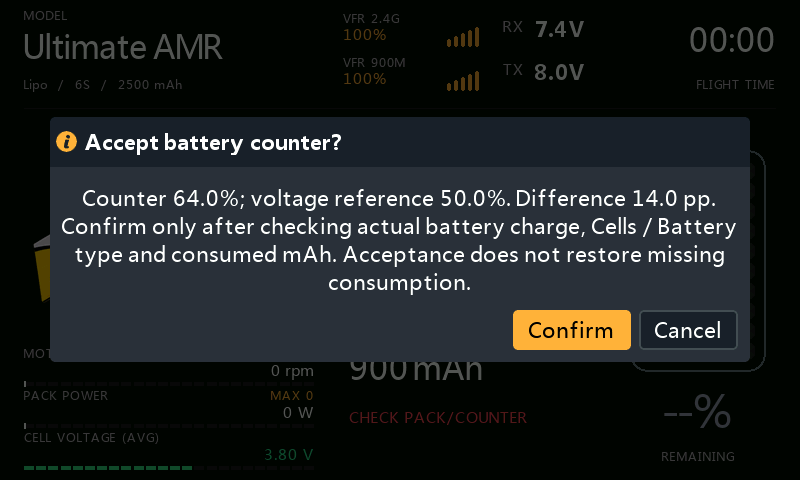
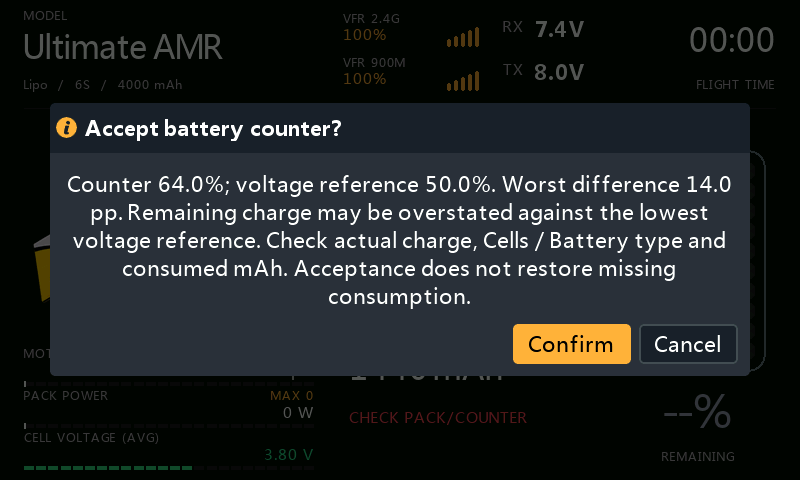
Release VoltDeck 2026.10-v7

Changed region(s): [[0.0625, 0.3438, 0.9375, 0.6562], [0.0625, 0.1875, 0.9375, 0.3125], [0.0625, 0.625, 0.9375, 0.8125]]

diff --git a/docs/Konfigurasjon-norsk.md b/docs/Konfigurasjon-norsk.md
@@ -70,19 +70,20 @@ avlesningene er kontrollert. Gjenværende mAh er også ukjent under kontrollen;
 **Consumed** kan fortsatt vise sensorens avlesning. Kontrollen gjelder ved alle
 forbruksnivåer, ikke bare når telleren er nær null.
 
-Hold motoren dearmert og la batteriet stabilisere seg. VoltDeck trenger gyldig
+La batteriet stabilisere seg. VoltDeck trenger gyldig
 pakkespenning, strøm og forbrukt mAh, fulgt av **10 sekunder med stabile
-avlesninger ved lav strøm**. Strømmen må være mellom null og **kapasitet / 20000 A**,
-begrenset til **0,5 A**: for 2500 mAh er grensen **0,125 A**. Spenningen kan variere
-med høyst **0,01 V per celle** i dette tidsrommet. Høyere strøm eller ARM PÅ
-avbryter målevinduet og krever minst **60 sekunder** for stabilisering før ny
-kontroll. En valgt faktisk **Arm switch** må være gyldig og AV. Tomt felt eller
-**Always on** gir ingen ARM-indikasjon; sørg selv for at motoren er sikkert
-deaktivert.
+avlesninger ved lav strøm**. Strømmen må være mellom null og **3 × kapasitet / 20000 A**,
+begrenset til **1,5 A**: grensen er **0,375 A for 2500 mAh** eller **0,60 A for
+4000 mAh**. Forskjellen mellom høyeste og laveste spenning kan være høyst
+**0,20 V for hele pakken**, ikke per celle. Høyere strøm, manglende avlesninger
+eller større spenningsvariasjon starter målevinduet på nytt. Det er ingen egen
+ventetid. **Arm switch** sperrer ikke denne batterikontrollen; den styrer
+fortsatt flyloggingen.
 
 Kontrollen sammenligner tellerens gjenværende prosent med en grov
-spenningsreferanse for valgt batteritype. Avviket måles i **prosentpoeng**, i
-begge retninger.
+spenningsreferanse for valgt batteritype. Mulig overestimering kontrolleres mot
+vinduets **laveste spenning**, og underestimering mot **høyeste spenning**.
+Det største avviket bestemmer resultatet, målt i **prosentpoeng**.
 Dialogen avrunder avviket opp til nærmeste 0,1 prosentpoeng; trekker du de to
 avrundede prosentene fra hverandre, kan resultatet derfor bli 0,1 poeng lavere.
 
@@ -91,6 +92,14 @@ avrundede prosentene fra hverandre, kan resultatet derfor bli 0,1 poeng lavere.
 | 10 prosentpoeng eller mindre | Godtas automatisk; beregnet prosent og batterisegmentene vises. |
 | Over 10, til og med 20 prosentpoeng | **CHECK PACK/COUNTER** beholdes i rødt og gjenværende lading er ukjent. Kontroller batteri og sensor, og bruk **Accept battery counter...** for å lese begge prosentene og avviket før bekreftelse. |
 | Over 20 prosentpoeng | Gjenværende lading forblir ukjent. Rett lading, batteriinnstillinger eller forbruksavlesning; menyen kan ikke omgå denne grensen. |
+
+**Accept battery counter...** viser hva som hindrer kontrollen, blant annet
+manglende eller uegnede kilder, målt strøm mot grensen, spenningsvariasjon eller
+fremdrift i 10-sekundersvinduet. Et høyere tellerestimat varsler om mulig
+overestimering; et lavere ber deg kontrollere forbruk, kapasitet og kalibrering
+av sensoren. Bekreftelsen bruker det kontrollerte spenningsområdet, slik at
+variasjon innenfor området ikke krever en identisk øyeblikksavlesning.
+Aktuell telemetri og batterioppsettet må fortsatt være gyldige når du bekrefter.
 
 For **LiFe** gir spenning ingen pålitelig prosentvis sammenligning.
 Etter samme lavstrømskontroll må du kontrollere faktisk lading, kapasitet og
@@ -115,8 +124,8 @@ gjenværende belastning påvirker resultatet. Visningen **Voltage estimate**
 beholder sin eksisterende skala, også **3,57 V = 30%** for Lipo; den er ikke
 referansen for denne kontrollen.
 
-**CHECK CELLS/TYPE** betyr at spenningen overstiger full cellevolt for valgt
-batteritype med mer enn 0,15 V/celle under samme tomgangsbetingelser. Rett
+**CHECK CELLS/TYPE** betyr at høyeste spenning i kontrollen overstiger full
+cellevolt for valgt batteritype med mer enn 0,15 V/celle. Rett
 **Cells**, **Battery type** eller spenningskilden; varselet kan ikke godtas bort
 med tellermenyen. Totalspenningen kan ikke fastslå riktig celletall.
 
@@ -361,7 +370,7 @@ korreksjonen.
 | Felt, i menyrekkefølge | Funksjon |
 |---|---|
 | Enable log | Slår på kvalifisering og modellspesifikk flytelling. |
-| Arm switch | Motorens faktiske arm-bryter eller logiske betingelse. Kreves for logging; aktivt også med logging av. Når valgt må den være gyldig og AV ved batterikontroll og tellergodkjenning. **---** og **Always on** gir ingen ARM-indikasjon for denne kontrollen. |
+| Arm switch | Motorens faktiske arm-bryter eller logiske betingelse. Kreves for logging. Sperrer ikke batterikontrollen ved **Consumed mAh**. Med **% sensor** eller **Voltage estimate** krever resetsperren for valgfri gjenværende mAh fortsatt en gyldig faktisk ARM AV-indikasjon ved godkjenning, også når logging er av. |
 | Throttle source | Faktisk gasskontroll/-kanal. Aktivt for diagnostikk også med logging av. |
 | Airborne gate | Valgfri bryter/logisk betingelse som må være PÅ for opptjening av kvalifiseringstid. **---** og **Always on** passerer. Aktivt for diagnostikk. |
 | Throttle low (raw) | Råverdi ved null gass, vist i **Flight diagnostics**. Standard -1024. |
@@ -440,7 +449,7 @@ når du går tilbake til aktuelle avlesninger.
 | Flight log / Dashboard | Bytter mellom hovedvisning og flylogg. |
 | Flight diagnostics | Åpner kvalifiseringsstatus og aktuelle kontrollavlesninger. |
 | Reset live peaks | Nullstiller hovedskjermens RPM- og Watt-maksimum. Endrer ikke flyteller eller maksimum i registrert flylogg. |
-| Accept battery counter... | Viser [batterikontrollen](#kontroll-før-gjenværende-lading-vises) ved **Consumed mAh**, eller et reset av den valgfrie telleren for gjenværende mAh med en annen metode. Kontroller faktisk lading og sensor før bekreftelse. Den kan ikke omgå avvik over 20 prosentpoeng eller **CHECK CELLS/TYPE** i batterikontrollen. Godkjenning gjenoppretter ikke manglende forbruk, nullstiller ikke sensoren, fyller ikke batteriet og endrer ikke flytellingen. |
+| Accept battery counter... | Viser status og eventuelle gjenværende sperrer for [batterikontrollen](#kontroll-før-gjenværende-lading-vises) ved **Consumed mAh**, eller et reset av den valgfrie telleren for gjenværende mAh med en annen metode. Kontroller faktisk lading og sensor før bekreftelse. Den kan ikke omgå avvik over 20 prosentpoeng eller **CHECK CELLS/TYPE** i batterikontrollen. Godkjenning gjenoppretter ikke manglende forbruk, nullstiller ikke sensoren, fyller ikke batteriet og endrer ikke flytellingen. |
 
 ## Visningseksempler
 

diff --git a/docs/Configuration.md b/docs/Configuration.md
@@ -71,19 +71,19 @@ are checked. The remaining-mAh display is also unknown during this check;
 **Consumed** can still show the sensor's reading. The check applies at every
 consumption level, not just when the counter is near zero.
 
-Keep the motor disarmed and let the pack settle. VoltDeck needs valid pack
+Let the pack settle. VoltDeck needs valid pack
 voltage, current and consumed mAh, followed by **10 seconds of stable low-current
-readings**. Current must be between zero and **capacity / 20000 A**, capped at
-**0.5 A**: for 2500 mAh, the limit is **0.125 A**. Voltage may vary by at most
-**0.01 V per cell** during that window. Higher current or ARM ON interrupts the
-window and requires at least **60 seconds** to settle before checking again.
-If a genuine **Arm switch** is selected, it must be valid and OFF. Leaving it
-blank or choosing **Always on** does not supply an ARM indication; keep the
-motor safely disabled yourself.
+readings**. Current must be between zero and **3 × capacity / 20000 A**, capped at
+**1.5 A**: the limit is **0.375 A for 2500 mAh** or **0.60 A for 4000 mAh**.
+The highest and lowest voltage may differ by at most **0.20 V for the whole
+pack**, not per cell. Higher current, missing readings or a wider voltage range
+starts the window again. There is no separate waiting period. **Arm switch**
+does not gate this pack check; it still controls flight logging.
 
 The check compares the counter's remaining percentage with a coarse voltage
-reference for the selected type. The difference is measured in **percentage
-points**, in either direction.
+reference for the selected type. It checks possible overestimation against the
+window's **lowest voltage** and underestimation against its **highest voltage**.
+The larger difference determines the result, measured in **percentage points**.
 The dialog rounds the difference up to the next 0.1 point; subtracting its two
 rounded percentages can therefore give a result 0.1 point lower.
 
@@ -92,6 +92,14 @@ rounded percentages can therefore give a result 0.1 point lower.
 | 10 percentage points or less | Automatically accepted; the calculated percentage and battery segments appear. |
 | More than 10, up to and including 20 points | **CHECK PACK/COUNTER** remains red and remaining charge stays unknown. Check the pack and sensor, then use **Accept battery counter...** to review both percentages and the difference before confirming. |
 | More than 20 points | Remaining charge stays unknown. Correct the charge, battery settings or consumption reading; the menu cannot bypass this limit. |
+
+**Accept battery counter...** shows what is holding up the check, including
+missing or unsuitable sources, measured current versus its limit, voltage
+variation or progress through the 10-second window. A higher counter estimate
+warns of possible overestimation; a lower one asks you to check consumption,
+capacity and sensor calibration. Confirmation uses the checked voltage range,
+so variation within that range does not require an identical frozen reading.
+Live telemetry and the battery setup must still be valid when you confirm.
 
 For **LiFe**, voltage cannot provide a dependable percentage comparison.
 After the same low-current check, inspect actual charge, capacity and consumed
@@ -116,8 +124,8 @@ and residual load affect the result. The **Voltage estimate** display retains
 its existing scale, including **3.57 V = 30%** for Lipo; it is not the reference
 used by this check.
 
-**CHECK CELLS/TYPE** means the voltage exceeds the selected battery type's full
-cell voltage by more than 0.15 V/cell under the same idle conditions. Correct
+**CHECK CELLS/TYPE** means the highest voltage in the check exceeds the selected
+battery type's full cell voltage by more than 0.15 V/cell. Correct
 **Cells**, **Battery type** or the voltage source; counter acceptance cannot
 dismiss this warning. Total voltage cannot determine the correct cell count.
 
@@ -361,7 +369,7 @@ from the flight log's uncorrected **KV potential**.
 | Field, in menu order | What it does |
 |---|---|
 | Enable log | Enables qualification and per-model flight counting. |
-| Arm switch | Actual motor-arm switch or logic condition. Required for logging; remains active when logging is Off. When selected, it must be valid and OFF during the pack check and counter acceptance. **---** and **Always on** do not provide an ARM indication for that check. |
+| Arm switch | Actual motor-arm switch or logic condition. Required for logging. Does not gate the **Consumed mAh** pack check. With **% sensor** or **Voltage estimate**, the optional remaining-mAh counter-reset guard still requires a valid actual ARM OFF indication for acceptance, even when logging is Off. |
 | Throttle source | Actual throttle control/channel. Remains active for diagnostics when logging is Off. |
 | Airborne gate | Optional switch/logic condition that must be ON to accumulate qualifying time. **---** and **Always on** pass. Remains active for diagnostics. |
 | Throttle low (raw) | Raw value at zero throttle, shown in **Flight diagnostics**. Default -1024. |
@@ -441,7 +449,7 @@ when you return to live readings.
 | Flight log / Dashboard | Switches between the dashboard and flight log. |
 | Flight diagnostics | Opens qualification status and live control readings. |
 | Reset live peaks | Clears the dashboard's RPM and Watts session peaks. It does not reset the flight count or the recorded flight's maxima. |
-| Accept battery counter... | Reviews [the pack check](#check-before-showing-remaining-charge) for **Consumed mAh**, or a reset of the optional remaining-mAh counter with another method. Check actual charge and the sensor before confirming. It cannot bypass a difference above 20 points or **CHECK CELLS/TYPE** in the pack check. Acceptance does not restore missing consumption, reset the sensor, fill the battery or change the flight count. |
+| Accept battery counter... | Shows the status and any remaining blockers for [the pack check](#check-before-showing-remaining-charge) with **Consumed mAh**, or reviews a reset of the optional remaining-mAh counter with another method. Check actual charge and the sensor before confirming. It cannot bypass a difference above 20 points or **CHECK CELLS/TYPE** in the pack check. Acceptance does not restore missing consumption, reset the sensor, fill the battery or change the flight count. |
 
 ## Display examples
 

diff --git a/docs/VoltDeck.md b/docs/VoltDeck.md
@@ -21,8 +21,8 @@ See the [illustrated configuration guide](Configuration.md) or the
 
 ## Installation
 
-Download [VoltDeck-2026.10-v6.zip](https://github.com/bliatun-code/VoltDeck/releases/download/voltdeck-2026.10-v6/VoltDeck-2026.10-v6.zip) from the
-[release assets](https://github.com/bliatun-code/VoltDeck/releases/tag/voltdeck-2026.10-v6). Use the named widget package,
+Download [VoltDeck-2026.10-v7.zip](https://github.com/bliatun-code/VoltDeck/releases/download/voltdeck-2026.10-v7/VoltDeck-2026.10-v7.zip) from the
+[release assets](https://github.com/bliatun-code/VoltDeck/releases/tag/voltdeck-2026.10-v7). Use the named widget package,
 not the automatically generated repository source archive. Extract its
 `scripts/VoltDeck` folder onto the SD card, preserving this structure:
 
@@ -46,9 +46,14 @@ remaining percent = 100 * (capacity - consumed mAh) / capacity
 
 The displayed result is limited to 0 through 100 percent. With **Consumed mAh**,
 VoltDeck first checks the counter against a stable, low-current voltage reference.
+The check needs 10 seconds of valid readings within a 0.20 V range for the whole
+pack. Current is limited to `3 × capacity / 20000 A`, capped at 1.5 A;
+4000 mAh allows 0.60 A. ARM does not gate this check, and there is no separate
+waiting period after an interrupted window.
 Until the pack is checked, remaining charge shows **--**. Differences above
 10 and no more than 20 percentage points require explicit confirmation; larger
-differences stay blocked. See [the illustrated pack check](Configuration.md#check-before-showing-remaining-charge)
+differences stay blocked. The larger difference against the window's lowest
+and highest voltage decides the result. See [the illustrated pack check](Configuration.md#check-before-showing-remaining-charge)
 for its measurement conditions and the LiFe confirmation.
 Reset the consumption counter when connecting a new or recharged battery.
 An incorrect pack capacity or a counter left over from a previous pack
@@ -58,7 +63,9 @@ With **Consumed mAh**, acceptance lasts for the battery connection; voltage sag
 during flight does not repeat the comparison. A long pack-telemetry loss or a radio restart requires
 a new check. If consumption unexpectedly falls, remaining charge becomes unknown
 and explicit counter acceptance is required after checking the battery and reading.
-**Accept battery counter...** reviews the current check; it does not reset the sensor.
+**Accept battery counter...** shows progress, remaining blockers and whether
+the counter estimate is higher or lower than the voltage reference. It does
+not reset the sensor.
 
 Check that the pack is fully charged before every flight. Compare reported
 consumption with charger refill over several flights and follow any supported

diff --git a/README.md b/README.md
@@ -1,11 +1,11 @@
 # VoltDeck
 A full-screen battery, telemetry and power dashboard for FrSky ETHOS 1.6.6 and 26.1.2.
 
-**VoltDeck 2026.10-v6: latest release.**
+**VoltDeck 2026.10-v7: latest release.**
 
 Physical radio testing of this version passed.
 
-[Download VoltDeck-2026.10-v6.zip](https://github.com/bliatun-code/VoltDeck/releases/download/voltdeck-2026.10-v6/VoltDeck-2026.10-v6.zip) | [Release notes](https://github.com/bliatun-code/VoltDeck/releases/tag/voltdeck-2026.10-v6)
+[Download VoltDeck-2026.10-v7.zip](https://github.com/bliatun-code/VoltDeck/releases/download/voltdeck-2026.10-v7/VoltDeck-2026.10-v7.zip) | [Release notes](https://github.com/bliatun-code/VoltDeck/releases/tag/voltdeck-2026.10-v7)
 
 ![VoltDeck: RPM and electrical power](docs/images/rpm-watts-lcd.png)
 
@@ -49,7 +49,7 @@ The screenshots use illustrative values.
 
 ## Install VoltDeck
 
-1. Download [VoltDeck-2026.10-v6.zip](https://github.com/bliatun-code/VoltDeck/releases/download/voltdeck-2026.10-v6/VoltDeck-2026.10-v6.zip) from the release assets, not GitHub's automatically generated source archive.
+1. Download [VoltDeck-2026.10-v7.zip](https://github.com/bliatun-code/VoltDeck/releases/download/voltdeck-2026.10-v7/VoltDeck-2026.10-v7.zip) from the release assets, not GitHub's automatically generated source archive.
 2. Extract its `scripts/VoltDeck` folder onto the radio SD card so the final path is `scripts/VoltDeck/main.lua`.
 3. Remove any existing `scripts/VoltDeck/main.luac`, then restart ETHOS.
 4. Create a full-screen widget area and select **VoltDeck**.

diff --git a/CHANGELOG.md b/CHANGELOG.md
@@ -1,5 +1,14 @@
 # Changelog
 
+## 2026.10-v7 - release, 2026-10-10
+
+- Allow up to 0.20 V variation across the whole pack during the 10-second battery check, accommodating stepped ESC telemetry.
+- Triple the low-current limit to `3 × capacity / 20000 A`, capped at 1.5 A; 4000 mAh allows 0.60 A. Avoid false rejection from native rounding at the limit.
+- Remove ARM and the separate 60-second wait from the consumed-mAh pack check; flight-logging conditions remain unchanged.
+- Compare consumption against both voltage-window endpoints and use the worst difference. Retain automatic acceptance through 10 percentage points, confirmation above 10 through 20, and blocking above 20; LiFe still needs manual confirmation.
+- Show check progress and specific blockers, and distinguish possible overestimation from a lower counter estimate. Confirm uses the checked voltage range with valid live readings and unchanged battery setup.
+- Refresh the illustrated battery-check dialogs and their English and Norwegian explanations.
+
 ## 2026.10-v6 - release, 2026-10-09
 
 - Add a Custom source alongside lower-deck presets, with position 1–3 and an Only Custom option; Custom replaces the cell row when all three rows are occupied.

diff --git a/docs/images/README.md b/docs/images/README.md
@@ -5,6 +5,9 @@ The menu, configuration and diagnostics images show VoltDeck in the ETHOS
 airborne gate alone does not qualify a flight.
 
 The layout examples use illustrative values rather than recorded flights.
+The battery-check dialogs illustrate manual confirmation and a blocked
+consumption reading; read the stated difference and its direction before
+accepting a counter.
 
 The four pack-transition images show a paused session, its retained last log,
 a new qualifying session and a second qualified session.
